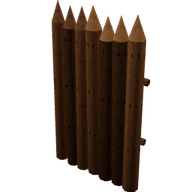
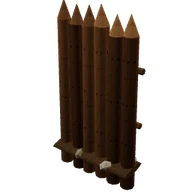
Avance: la empalizada de 6 troncos con la tierra apisonada y piedras de calzo al pie; capturas de cerca en la prueba del menú de construir
Claude-Session: https://claude.ai/code/session_011XgxtnoB5q2GRmgLvYkWPY

Changed region(s): [[0.25, 0.0, 0.7812, 1.0]]

diff --git a/src/mundo/modelos.js b/src/mundo/modelos.js
@@ -318,16 +318,24 @@ function empalizada(opc = {}) {
     H.add(new THREE.TorusGeometry(0.08, 0.016, 5, 10), 'hierro', ancho - 0.25, 1.15, 0.09); // argolla
     return conHoja(F, H, -MODULO / 2);
   }
-  const L = loteMuro(), n = 7;
+  // los 6 troncos delgados que cuesta (P11c), juntos, con la tierra apisonada y unas piedras de calzo al pie
+  const L = loteMuro(), n = 6;
   for (let t = 0; t < n; t++) {
     const x = -MODULO / 2 + (t + 0.5) * (MODULO / n), alto = P.altoEmpalizada - 0.15 + ruido(t + 3) * 0.3;
-    const r = 0.135 + ruido(t * 5.1) * 0.025, inclina = (ruido(t * 1.9 + 2) - 0.5) * 0.04;
+    const r = 0.152 + ruido(t * 5.1) * 0.018, inclina = (ruido(t * 1.9 + 2) - 0.5) * 0.04;
     // clavado: el tronco sigue ENTERRADO bajo el suelo (así, en ladera, ningún pie queda en el aire)
     L.add(cil(r * 0.94, r, alto + ENTERRADO, 9), ruido(t * 7.7 + 1) > 0.5 ? 'madera' : 'maderaOsc', x, (alto - ENTERRADO) / 2, 0, { z: inclina, y: ruido(t) * 3 });
     const punta = new THREE.ConeGeometry(r * 0.94, 0.4, 9); // la punta tallada a hachazos: madera clara, caras planas
     L.add(punta, ruido(t * 3.3) > 0.5 ? 'tabla' : 'madera', x - Math.sin(inclina) * (alto + ENTERRADO) / 2, alto + 0.2, 0, { z: inclina }, { sinSuelo: true, plano: true });
   }
   for (const y of [1.0, 2.2]) varaX(L, MODULO, 0.06, 'maderaOsc', 0, y, -0.2, y > 2 ? 0.006 : -0.006);
+  // la zanja rellena y apisonada: un lomo bajo de tierra a lo largo (casi todo bajo el suelo), y piedras de calzo
+  L.add(cil(0.34, 0.34, MODULO, 10), 0x4f3f2e, 0, -0.01, 0, { z: Math.PI / 2 }, { sinSuelo: true, tex: 'piedra', brillo: 0.9, escala: new THREE.Vector3(0.24, 1, 1) });
+  for (let t = 0; t < 5; t++) {
+    const lado = t % 2 ? 1 : -1, tam = 0.1 + ruido(t * 4.3 + 1) * 0.06;
+    L.add(new THREE.IcosahedronGeometry(1, 0), ruido(t * 3.1) > 0.5 ? 'piedra' : 'piedraOsc', -0.8 + t * 0.4 + ruido(t) * 0.12, tam * 0.3, lado * (0.22 + ruido(t + 8) * 0.06),
+      { x: ruido(t + 2) * 3, y: ruido(t + 5) * 3 }, { sinSuelo: true, plano: true, escala: new THREE.Vector3(tam * 1.3, tam * 0.7, tam) });
+  }
   return deLote(L);
 }
 

diff --git a/pruebas/prueba_construir_menu_navegador.py b/pruebas/prueba_construir_menu_navegador.py
@@ -4,8 +4,9 @@
 #   - arriba, «Poner | Quitar», la planta, Deshacer y Terminar, en una barra que no se sale de la pantalla; X pasa de
 #     poner a quitar y vuelve; en el móvil, por encima de nada de lo de abajo;
 #   - cada pieza con su imagen (cargada de verdad) y el coste en iconos; lo que no tienes, en rojo;
-#   - deshacer lo último: el marco puesto se quita, y otra vez ya no hay nada que deshacer.
-# Rota a propósito con MUTAR=1 (el botón de deshacer no hace nada): falla.
+#   - deshacer lo último: el marco puesto se quita, y otra vez ya no hay nada que deshacer;
+#   - la empalizada (P11c), a la vista en «Exterior» con su imagen y sus 6 troncos, y de cerca, levantada.
+# Rota a propósito con MUTAR=1 (el botón de deshacer no hace nada) o MUTAR=2 (sin la empalizada en el menú): falla.
 # Uso: python3 pruebas/prueba_construir_menu_navegador.py <html> <carpeta_capturas>
 import sys, os, re, shutil, tempfile, threading, http.server, functools, socketserver
 from playwright.sync_api import sync_playwright
@@ -89,6 +90,29 @@ with sync_playwright() as p:
             comprobar('quitando, sin los huecos de las manos de abajo', not ev("!!document.getElementById('llevas').offsetParent"))
             pg.click('#modos [data-modo=construir]'); pg.wait_for_timeout(300)
             comprobar('Poner: vuelve a poner', ev(f"{K}.estado.modo") == 'construir')
+        # la empalizada (P11c): ya no se esconde; en «Exterior», con su imagen y sus 6 troncos (delgados); se levanta
+        # clavada en el suelo, con las puntas afiladas. MUTAR=2: escondida otra vez (tiene que fallar)
+        pg.click('#pestanas button[data-cat="exterior"]'); pg.wait_for_timeout(2000)
+        ext = ev("[...document.querySelectorAll('#piezas button.pieza')].map(b => { const i = b.querySelector('img.pz-img'); return [b.querySelector('b').textContent, !!i && i.complete && i.naturalWidth > 0, [...b.querySelectorAll('.cc')].map(c => c.title).join(' ')]; })")
+        emp = [e for e in ext if e[0] == 'Empalizada']
+        if os.environ.get('MUTAR') == '2': emp = []
+        comprobar('en «Exterior», la empalizada a la vista, con su imagen cargada', bool(emp) and emp[0][1], str([e[0] for e in ext]))
+        comprobar('y cuesta 6 troncos', bool(emp) and emp[0][2].startswith('6 tronco'), emp[0][2] if emp else '')
+        comprobar('la puerta de empalizada (con hierro) sigue escondida', not [e for e in ext if e[0] == 'Puerta de empalizada'])
+        antes = ev(f"{K}.mundo.construcciones.reduce((a, c) => a + c.piezas.size, 0)")
+        for x in [3, 5, 7]:
+            ev(f"{K}.seleccionar('pieza','empalizada'); {K}.apuntar({x},2); {K}.colocar()")
+        ev(f"{K}.seleccionar('pieza','cerca'); {K}.apuntar(9,2); {K}.colocar(); {K}.terminarObras()")   # (sin servidor, las obras se terminan al momento)
+        n3 = ev(f"{K}.mundo.construcciones.reduce((a, c) => a + c.piezas.size, 0)")
+        comprobar('tres tramos de empalizada y una cerca puestos', n3 == antes + 4, f'piezas={n3 - antes}')
+        hechas = ev(f"[...{K}.mundo.construcciones.flatMap(c => [...c.piezas.values()])].filter(p => p.tipo === 'empalizada' && !p.obra).length")
+        comprobar('y la empalizada, levantada', hechas == 3, f'tramos={hechas}')
+        ev(f"{K}.cambiarModo('mover')"); pg.wait_for_timeout(800)
+        for i, (px, pz, giro, pitch, dist) in enumerate([(8.5, 3.6, 0.5, 0.28, 8), (4, 3.4, -0.4, 0.12, 5), (2.6, 3.0, -0.2, 0.05, 2.6)]):
+            ev(f"(() => {{ const k = {K}; Object.assign(k.pj, {{ x: {px}, z: {pz}, rot: 0 }}); k.cam.yaw = {giro}; k.cam.pitch = {pitch}; k.cam.dist = {dist}; }})()")
+            pg.wait_for_timeout(2500)
+            pg.screenshot(path=f'{SALIDA}/{nombre}_6_empalizada_{i + 1}.png'.replace('ó', 'o'))
+        ev(f"{K}.cambiarModo('construir')"); pg.wait_for_timeout(800)
         pg.click('#pestanas button[data-cat="almacenajes"]'); pg.wait_for_timeout(2500)
         pg.screenshot(path=f'{SALIDA}/{nombre}_5_almacenajes.png'.replace('ó', 'o'))
         comprobar('sin errores en la página', not errores, '; '.join(errores[:3]))

diff --git a/pruebas/prueba_navegador.py b/pruebas/prueba_navegador.py
@@ -47,9 +47,9 @@ with sync_playwright() as p:
         ev(f"{K}.terminarObras()")  # se construye por obras: aquí se terminan al momento (con acciones)
         return v
 
-    print('PC: el menú de construir solo enseña lo de este tramo (lo de paja, desde la era: 13 nov)')
+    print('PC: el menú de construir solo enseña lo de este tramo (lo de paja, desde la era: 13 nov; la empalizada, desde P11c)')
     ev(f"{K}.cambiarModo('construir')")
-    guardadas = ['Tejado de teja', 'Chimenea', 'Adarve', 'Empalizada', 'Polea', 'Polipasto con torno', 'Escalera de tablas',
+    guardadas = ['Tejado de teja', 'Chimenea', 'Adarve', 'Puerta de empalizada', 'Polea', 'Polipasto con torno', 'Escalera de tablas',
                  'Cama de madera', 'Mesa', 'Banco', 'Arcón', 'Barril', 'Estantería', 'Muro de tablas']
     vistas = []
     for cat in ['tierra', 'base', 'estructura', 'muro', 'tejado', 'acceso', 'exterior', 'deco']:
